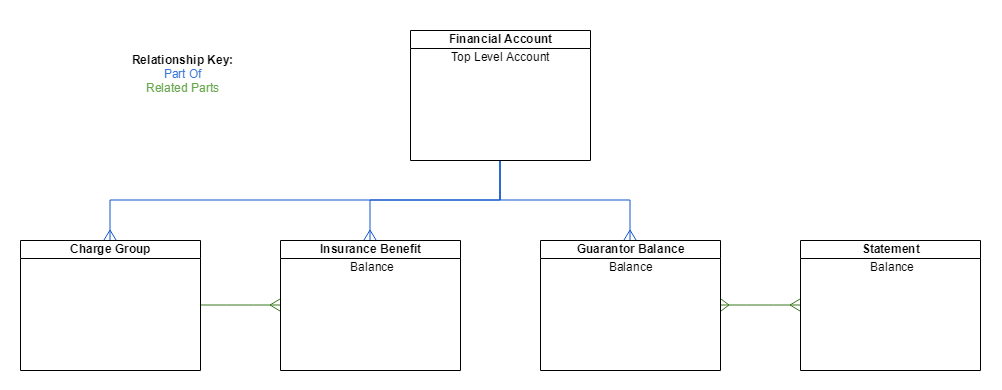
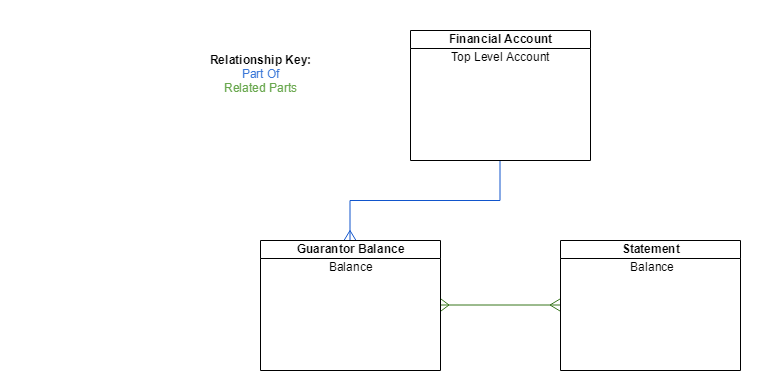
Updating based on feedback.

diff --git a/content/millennium/r4/financial/account.md b/content/millennium/r4/financial/account.md
@@ -19,11 +19,9 @@ The Account resource acts as a central record against which charges, payments, a
 
 The account resource supports multiple account types which are defined below. 
 
-* Financial Account - Top level patient account
-* Guarantor Balance Account - Self pay balance account.
-* Charge Group Account - Charge grouping account for an episode of care.
-* Insurance Benefit Account - Insurance balance account.
-* Statement - Snapshot in time of a patient statement.
+* financial-account - Top level patient account
+* guarantor-balance - Self pay balance account.
+* statement - Snapshot in time of a patient statement.
 
 
 The following fields are returned if valued:
@@ -73,13 +71,13 @@ Search for Accounts that meet supplied query parameters:
 
 Notes:
 
-* `Account-balance` is only returned on statement, guarantor-balance, and insurance-balance types. 
+* `Account-balance` is only returned on statement and guarantor-balance types
 * `Patient` is only returned on statement and financial-account types 
-* Guarantor search can only be RelatedPersons 
+* Guarantor search can only be RelatedPersons with the financial-account type
 * IDs are prefixed based upon the account type 
 
 ### Headers
-
+ 
  <%= headers %>
 
 ### Example
